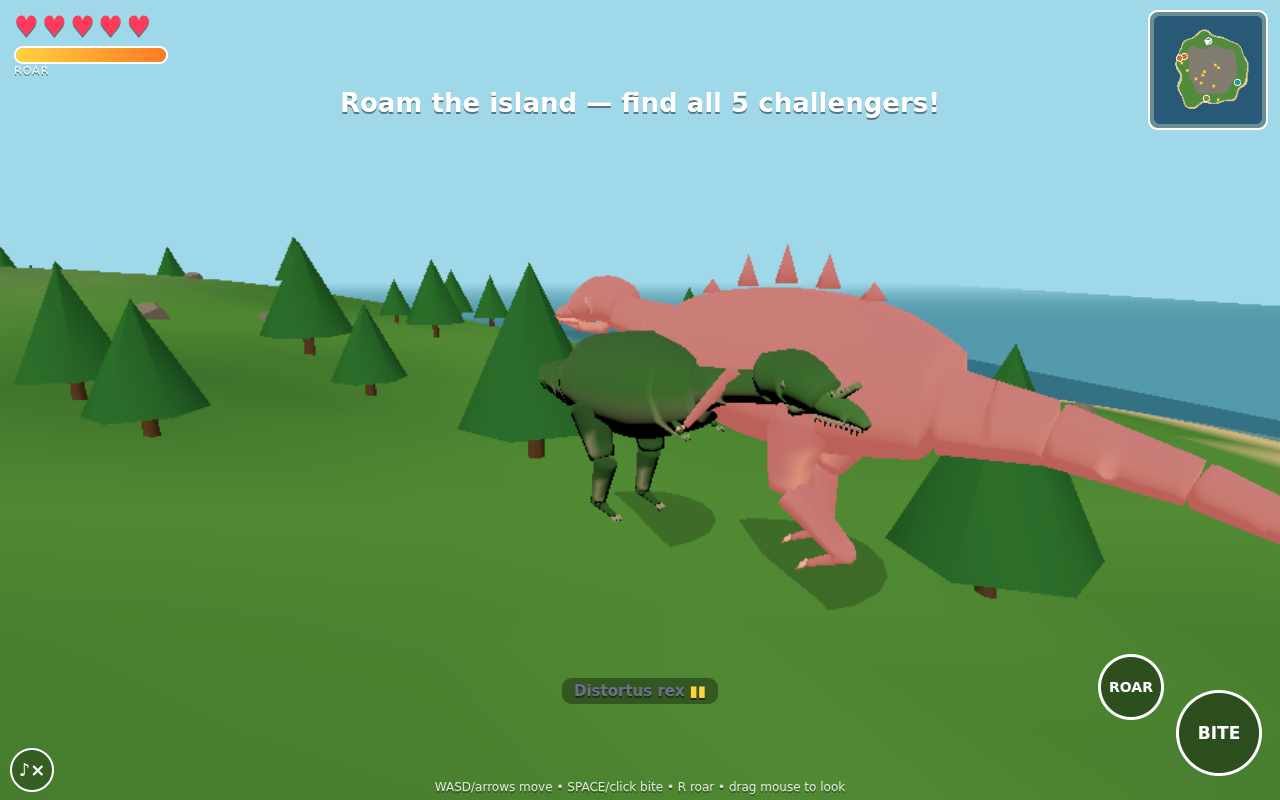
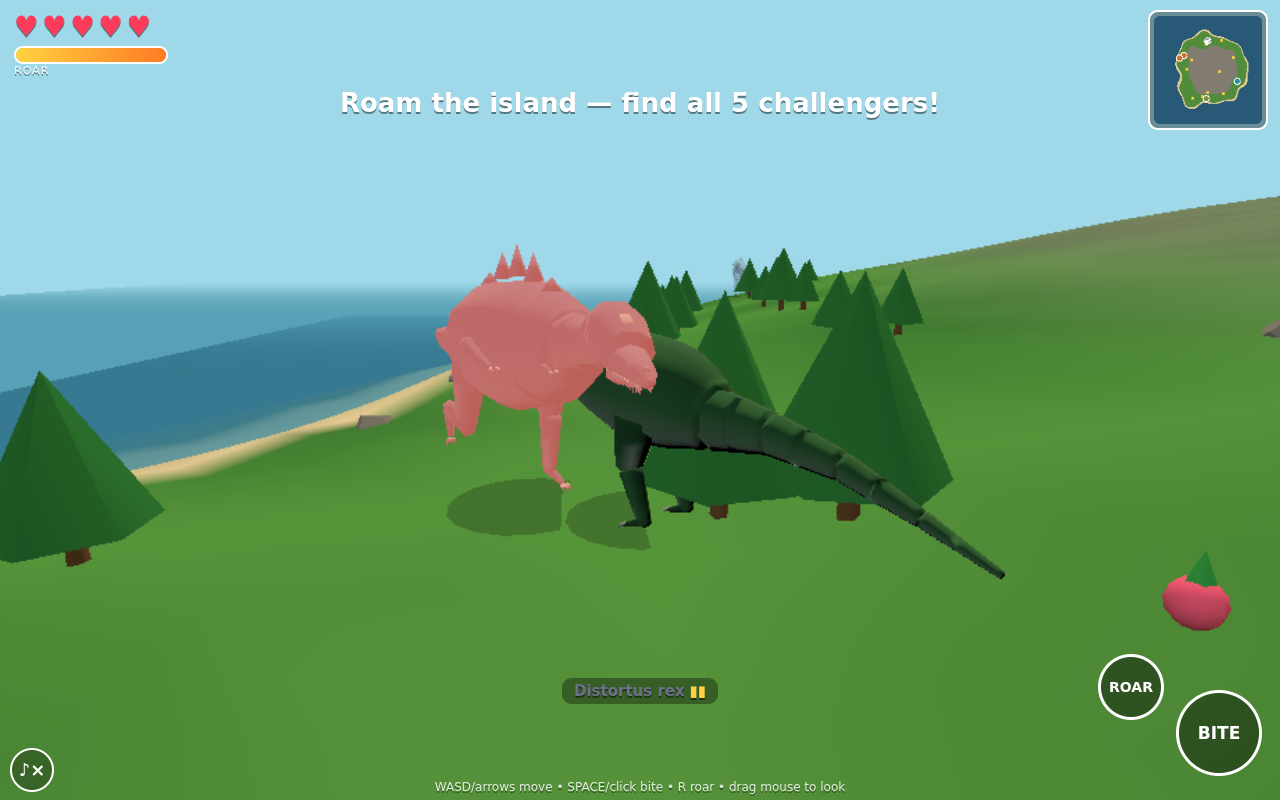
Dino Brawl 3D animation overhaul: speed-scaled gaits with knee flex and toe-off, bob/crouch/breathing, counterbalance tails that lag into turns, saccade-and-track gaze, telegraphed windup-then-snap bites with lunge, roar swell, buckle-and-topple deaths; Ankylo diagonal gait with club-cock tail sweep

diff --git a/examples/dinobrawl-3d/index.html b/examples/dinobrawl-3d/index.html
@@ -95,8 +95,9 @@ const scene=new THREE.Scene();
 scene.background=new THREE.Color(0x9fd8e8);
 scene.fog=new THREE.Fog(0x9fd8e8,tier==='low'?90:120,tier==='low'?210:300);
 const camera=new THREE.PerspectiveCamera(62,innerWidth/innerHeight,0.1,400);
-scene.add(new THREE.HemisphereLight(0xffffff,0x54703f,1.2));
-const sun=new THREE.DirectionalLight(0xfff2cf,1.9);sun.position.set(60,90,30);scene.add(sun);
+scene.add(new THREE.HemisphereLight(0xffffff,0x54703f,1.55));
+const sun=new THREE.DirectionalLight(0xfff2cf,1.7);sun.position.set(60,90,30);scene.add(sun);
+const fill=new THREE.DirectionalLight(0xcfe4ff,0.5);fill.position.set(-50,40,-60);scene.add(fill);
 
 /* ============================== audio ================================ */
 const AU={ctx:null,noise:null};
@@ -230,82 +231,190 @@ const shadowG=new THREE.CircleGeometry(1,18).rotateX(-Math.PI/2);
 const shadowM=new THREE.MeshBasicMaterial({color:0x000000,transparent:true,opacity:0.22,depthWrite:false});
 function makeChar(key){
   const sp=SPECIES[key],proto=geoCache[key].scene;
-  const root=proto.clone(true);
+  const model=proto.clone(true);
   const joints={},mats=[];
-  root.traverse(o=>{
+  model.traverse(o=>{
     if(o.isMesh){o.material=o.material.clone();o.material.vertexColors=true;mats.push(o.material);}
     else joints[o.name]=o;
   });
+  const root=new THREE.Group();          // outer: position+yaw only
+  root.add(model);                       // model: pose pitch/roll/breathe/bob
   const shadow=new THREE.Mesh(shadowG,shadowM.clone());
   root.add(shadow);
   scene.add(root);
-  const ch={key,sp,root,joints,shadow,mats,tail:[1,2,3,4].map(i=>joints['tail'+i]).filter(Boolean),
-    x:0,z:0,y:0,yaw:0,speed:0,state:'idle',t:rand(0,10),
+  const ch={key,sp,model,root,joints,shadow,mats,tail:[1,2,3,4].map(i=>joints['tail'+i]).filter(Boolean),
+    x:0,z:0,y:0,yaw:0,speed:0,state:'idle',t:rand(0,10),bob:0,
     hp:sp.hp,atkT:0,cool:0,windup:0,windupMax:1,hurtT:0,deadT:0,fear:0,alive:true,flash:0,
+    strikeT:0,roarT:0,roarMax:1,look:{y:0,ty:0,timer:rand(0,3)},yawLag:0,lastYaw:0,
+    fallSide:Math.random()<.5?-1:1,clubSide:0,prevAgg:0,
     wander:{x:0,z:0},home:{x:0,z:0},respawnAt:0,counted:false,isPlayer:false,remove:null};
-  const s=sp.scale;ch.root.scale.set(s,s,s);
+  const s=sp.scale;model.scale.set(s,s,s);
   return ch;
 }
 
-/* ============================== animation ============================ */
+/* ============================== animation ============================
+   Realistic-ish creature motion, tuned for fun:
+   • stride frequency scales with speed (dynamic similarity), sharpened swing phase
+   • knees flex in swing / extend through stance; feet push off at toe-off
+   • body bobs with steps, crouches lower when running, breathes when idle
+   • tail is a counterbalance: braces up at speed, lags into turns
+   • head does saccade-then-hold looks, locks forward at speed, tracks prey,
+     lags the body in turns (gaze stability)
+   • bite = arch back + gape (telegraph!) → explosive strike + snap
+   • roar = head high, chest out, body swell
+   • death = limbs buckle, body sinks and topples to one side
+   ------------------------------------------------------------------- */
+const easeOut=t=>1-Math.pow(1-t,3);
+function startRoar(ch,dur){ch.roarT=ch.roarMax=dur;}
+function focusOf(ch){ // what the eyes are on
+  if(!player||!player.alive)return ch.isPlayer?null:player;
+  if(ch.isPlayer){let b=null,bd=7;                       // player head eyes the nearest prey
+    for(const e of enemies){if(!e.alive)continue;const d=Math.hypot(e.x-ch.x,e.z-ch.z);if(d<bd){bd=d;b=e;}}
+    return b;}
+  return (ch.state==='chase'||ch.state==='attack'||ch.state==='flee')?player:null;
+}
 function poseChar(ch,dt){
-  const sp=ch.sp,J=ch.joints,th=ch.t;
-  const moving=Math.abs(ch.speed)>0.4;
-  const gait=ch.speed>sp.speed*0.55?1:0.62;
-  const w=ch.speed*(sp.kind==='quad'?0.9:1.15)+0.6;
-  ch.t+=dt*(moving?w:1.1);
-  const p=th*2.2;
-  const A=moving?(sp.kind==='quad'?0.5:0.7)*gait:0.05;
+  const sp=ch.sp,J=ch.joints,M=ch.model,s=sp.scale,quad=sp.kind==='quad';
+  if(!ch.alive){poseDeath(ch,dt);return;}
+  ch.strikeT=Math.max(0,ch.strikeT-dt);
+  ch.roarT=Math.max(0,ch.roarT-dt);
+  const roarK=ch.roarT>0?Math.sin(clamp(1-ch.roarT/ch.roarMax,0,1)*Math.PI):0;
+  const spdN=clamp(Math.abs(ch.speed)/sp.run,0,1);
+  const moving=Math.abs(ch.speed)>0.5;
+  const strideF=(quad?1.5:1.35)+spdN*(quad?2.3:2.9);   // steps/sec grows with speed
+  ch.t+=dt*(moving?strideF:0.45);
+  const p=ch.t*2.2;
   const flashK=ch.flash>0?Math.sin(ch.flash*40)*0.03:0;
-  // attack progress (shared windup/swing model)
-  let k=-1;
-  if(ch.windup>0)k=1-ch.windup/ch.windupMax;
-  else if(ch.atkT>0)k=1-ch.atkT/sp.atk;
-  if(sp.kind==='quad'){
-    if(J.legFL){J.legFL.rotation.z=A*Math.sin(p)+flashK;J.legFR.rotation.z=A*Math.sin(p+Math.PI)+flashK;
-                 J.legBL.rotation.z=A*Math.sin(p+Math.PI)*0.8;J.legBR.rotation.z=A*Math.sin(p)*0.8;}
-    if(J.head)J.head.rotation.z=Math.sin(th*1.3)*0.04-(k>=0?0.18*Math.sin(k*Math.PI):0);
-    if(J.tail1)J.tail1.rotation.y=Math.sin(th*1.6)*0.12+(k>=0?0.5*Math.sin(k*Math.PI):0);
-  } else {
-    if(J.thighL){
-      J.thighL.rotation.z=A*Math.sin(p)+flashK;J.thighR.rotation.z=A*Math.sin(p+Math.PI)+flashK;
-      if(J.shinL){J.shinL.rotation.z=-Math.max(0,Math.sin(p+0.9))*A*1.25;
-                  J.shinR.rotation.z=-Math.max(0,Math.sin(p+0.9+Math.PI))*A*1.25;}
-      if(J.footL){J.footL.rotation.z=Math.sin(p+1.6)*A*0.6;J.footR.rotation.z=Math.sin(p+1.6+Math.PI)*A*0.6;}
-      const sw=Math.sin(th*0.9)*0.08;
-      ch.tail.forEach((j,i)=>{j.rotation.y=Math.sin(th*1.3+i*0.55)*0.13*(1+i*0.3)*(moving?1.3:0.7)+sw;
-                             j.rotation.z=-0.09;});
-      if(J.armL){J.armL.rotation.z=-A*0.5*Math.sin(p)+0.15;J.armR.rotation.z=-A*0.5*Math.sin(p+Math.PI)+0.15;
-        if(J.arm2L){J.arm2L.rotation.z=-A*0.5*Math.sin(p+1)+0.25;J.arm2R.rotation.z=-A*0.5*Math.sin(p+1+Math.PI)+0.25;}}
-      let gape=0.04+Math.sin(th*2.3)*0.02, neckZ=Math.sin(th*1.1)*0.03, headZ=0;
-      if(k>=0){
-        gape=k<0.45?lerp(0,0.6,k/0.45):lerp(0.6,0.02,(k-0.45)/0.55);
-        neckZ=lerp(0.1,-0.18,clamp(k*1.6,0,1));headZ=lerp(-0.12,0.1,k);
-      }
-      if(sp.tailswish&&k>=0)ch.tail.forEach((j,i)=>{j.rotation.y+=Math.sin(k*Math.PI*2.5)*0.5*(1+i*0.4);});
-      if(J.neck)J.neck.rotation.z=neckZ;
-      if(J.head)J.head.rotation.z=headZ+Math.sin(th*1.7)*0.02;
-      if(J.jaw)J.jaw.rotation.z=gape;
+  // smoothed turn rate → tail lags one way, head the other (like real animals)
+  const yr=dt>0?angDiff(ch.yaw,ch.lastYaw)/dt:0; ch.lastYaw=ch.yaw;
+  ch.yawLag+=(clamp(yr,-3,3)-ch.yawLag)*Math.min(1,dt*5);
+  // gaze: saccade to a look target, then hold; lock on focus when it matters
+  const foc=focusOf(ch);
+  ch.look.timer-=dt;
+  if(foc)ch.look.ty=clamp(angDiff(Math.atan2(-(foc.z-ch.z),foc.x-ch.x),ch.yaw),-0.65,0.65);
+  else if(ch.look.timer<=0){ch.look.timer=rand(2.4,6);ch.look.ty=moving?0:rand(-0.8,0.8);}
+  const lkS=Math.abs(ch.look.ty-ch.look.y)>0.12?9:2.2; // saccade fast, drift slow
+  ch.look.y+=(ch.look.ty-ch.look.y)*Math.min(1,dt*lkS);
+  const breath=Math.sin(ch.t*1.6);
+  const hurtK=ch.hurtT>0?1:0;
+  if(quad){
+    /* Ankylosaurus: low heavy diagonal-sequence gait; club follows the head,
+       winds up cocked to one side, then whips across the other */
+    const A=(0.24+spdN*0.30)*(moving?1:0.04);
+    const sw=q=>Math.sin(q+0.3*Math.sin(q));
+    if(J.legFL){J.legFL.rotation.z=A*sw(p)+flashK;  J.legBR.rotation.z=A*sw(p)+flashK*0.8;
+                J.legFR.rotation.z=A*sw(p+Math.PI)+flashK;J.legBL.rotation.z=A*sw(p+Math.PI)+flashK*0.8;
+                J.legFL.rotation.x=J.legBL.rotation.x=0;J.legFR.rotation.x=J.legBR.rotation.x=0;}
+    ch.bob=moving?Math.abs(Math.sin(p))*(0.035+0.05*spdN):0;
+    let clubY=Math.sin(ch.t*0.8)*0.05-ch.yawLag*0.18, clubZ=0;
+    let headZ=-0.05+Math.sin(ch.t*0.7)*0.03, headY=ch.look.y*0.55-ch.yawLag*0.05;
+    if(ch.windup>0||ch.strikeT>0){
+      const side=ch.clubSide||(ch.clubSide=(player.x>=ch.x?1:-1)); // wind toward the player, whip across
+      if(ch.windup>0){const w=1-ch.windup/ch.windupMax;clubY=side*(0.45+0.95*w);clubZ=0.25*w;headZ-=0.10*w;}
+      else{const w=clamp(1-ch.strikeT/0.26,0,1);clubY=side*(1.4-2.8*easeOut(w));headZ-=0.12*(1-w);}
     }
-    ch.root.rotation.z=Math.sin(p)*0.02*(moving?1:0.2);
+    if(roarK>0){headZ+=0.35*roarK;clubY*=(1-roarK);}
+    if(hurtK){headZ-=0.18;clubY+=Math.sin(ch.hurtT*40)*0.2;}
+    if(J.head){J.head.rotation.y=headY;J.head.rotation.z=headZ;}
+    if(J.tail1){J.tail1.rotation.y=clubY;J.tail1.rotation.z=clubZ;}
+    M.rotation.z=-0.01+Math.sin(p)*0.012*(moving?1:0.3)+flashK*2+(hurtK?Math.sin(ch.hurtT*50)*0.04:0);
+    M.rotation.x=0;
+    M.position.y=hurtK?Math.sin(ch.hurtT*40)*0.03:0;
+    const bs=1+breath*0.010*(moving?0.3:1)+roarK*0.025;
+    M.scale.set(s*(1+(bs-1)*0.5),s*bs,s*(1+(bs-1)*0.7));
+  } else {
+    /* Theropod: sharp swing-phase legs, knee flexion, toe-off push */
+    const A=(0.28+spdN*0.50)*(moving?1:0.05);
+    const sw=q=>Math.sin(q+0.45*Math.sin(q));           // fast lift, slow push
+    if(!J.thighL)return;
+    J.thighL.rotation.z=A*sw(p)+flashK;
+    J.thighR.rotation.z=A*sw(p+Math.PI)+flashK;
+    J.shinL.rotation.z=-(0.13+0.10*spdN+A*1.15*Math.max(0,Math.sin(p+1.4)));
+    J.shinR.rotation.z=-(0.13+0.10*spdN+A*1.15*Math.max(0,Math.sin(p+Math.PI+1.4)));
+    if(J.footL){J.footL.rotation.z=0.13*Math.sin(p+2.8)*(moving?1:0.1);
+                J.footR.rotation.z=0.13*Math.sin(p+Math.PI+2.8)*(moving?1:0.1);}
+    ch.bob=moving?Math.abs(Math.sin(p))*(0.04+0.09*spdN):0;
+    // tail: horizontal stance, braced high at speed, sweeps opposite to turns
+    ch.tail.forEach((j,i)=>{
+      j.rotation.y=Math.sin(ch.t*1.1+i*0.6)*0.09*(1+i*0.25)*(moving?1.15:0.55)
+                  -ch.yawLag*(0.05+i*0.014);
+      j.rotation.z=-(0.10+spdN*0.05);
+    });
+    if(sp.tailswish&&(ch.windup>0||ch.strikeT>0)){       // Spinosaurus tail bludgeon
+      const w=ch.windup>0?1-ch.windup/ch.windupMax:1.2+clamp(1-ch.strikeT/0.24,0,1);
+      ch.tail.forEach((j,i)=>{j.rotation.y+=Math.sin(w*Math.PI*2.2)*0.55*(1+i*0.4);});
+    }
+    // arms: tucked, swing faintly with the steps; Distortus' extra pair twitches
+    if(J.armL){const aw=moving?A*0.45:0.04-breath*0.03;
+      J.armL.rotation.z=aw+0.28;J.armR.rotation.z=aw+0.28;
+      if(J.arm2L){const tw=Math.sin(ch.t*3.4+1.5)*0.13;
+        J.arm2L.rotation.z=aw*0.6+tw+0.36;J.arm2R.rotation.z=aw*0.6-tw+0.36;}}
+    // neck/head: look + gaze lag + breath; windup = arch & gape; strike = drive & snap
+    let neckY=ch.look.y*0.55-ch.yawLag*0.18, neckZ=0.02+breath*0.012,
+        headY=ch.look.y*0.30-ch.yawLag*0.10, headZ=-0.03, gape=0.03+Math.sin(ch.t*2.4)*0.012;
+    if(ch.windup>0){                                   // telegraph: rear back, jaws wide
+      const w=1-ch.windup/ch.windupMax;
+      neckZ=lerp(neckZ,0.32,w);headZ=lerp(headZ,0.26,w);gape=lerp(gape,0.62,w);
+    } else if(ch.strikeT>0){
+      const dur=ch.isPlayer?0.28:0.24, u=clamp(1-ch.strikeT/dur,0,1);
+      if(ch.isPlayer){                                 // arcade instant bite: load & snap
+        if(u<0.42){const w=u/0.42;neckZ=lerp(0.02,0.24,w);headZ=lerp(-0.03,0.18,w);gape=lerp(0.05,0.58,w);}
+        else{const w=(u-0.42)/0.58;neckZ=lerp(0.24,-0.34,easeOut(w));headZ=lerp(0.18,-0.15,easeOut(w));
+             gape=lerp(0.58,0.02,clamp(w*1.7,0,1));}
+      } else {                                         // follow-through from the windup
+        neckZ=lerp(0.32,-0.38,easeOut(clamp(u*1.5,0,1)));
+        headZ=lerp(0.26,-0.18,easeOut(clamp(u*1.5,0,1)));
+        gape=lerp(0.62,0.02,clamp(u*2.2,0,1));
+      }
+    }
+    if(hurtK){gape=Math.max(gape,0.22);neckZ-=0.12;headZ+=0.10;}
+    if(roarK>0){neckY=0;headY=0;neckZ=lerp(neckZ,0.62,roarK);headZ=lerp(headZ,0.32,roarK);gape=lerp(gape,0.5,roarK);}
+    J.neck.rotation.y=neckY;J.neck.rotation.z=neckZ;
+    J.head.rotation.y=headY;J.head.rotation.z=headZ;
+    J.jaw.rotation.z=gape;
+    // body: crouch with speed, bob-pitch with steps, flinch wobble
+    M.rotation.z=-0.015-0.05*spdN+Math.sin(p)*0.018*(moving?1:0.25)
+                 +(hurtK?Math.sin(ch.hurtT*50)*0.05:0)+flashK*2-roarK*0.05;
+    M.rotation.x=0;
+    M.position.y=hurtK?Math.sin(ch.hurtT*40)*0.03:0;
+    const bs=1+breath*0.012*(moving?0.3:1)+roarK*0.03;
+    M.scale.set(s*(1+(bs-1)*0.5),s*bs,s*(1+(bs-1)*0.7));
   }
-  if(ch.hurtT>0)ch.root.rotation.z+=Math.sin(ch.hurtT*50)*0.05;
-  if(!ch.alive){
-    ch.deadT+=dt;
-    ch.root.rotation.z=lerp(0,-1.55,clamp(ch.deadT*1.6,0,1));
-    if(ch.deadT>2.6)ch.mats.forEach(m=>{m.transparent=true;m.opacity=clamp(1-(ch.deadT-2.6)/1.2,0,1);});
-    if(ch.deadT>4.2&&ch.remove)ch.remove();
-  }
-  if(sp.camo&&ch.alive){
+  if(sp.camo){ // Indominus: translucent prowl with a heat-shimmer
     const near=player&&Math.hypot(ch.x-player.x,ch.z-player.z)<16;
-    const vis=(k>=0||ch.hurtT>0||near)?1:0.32;
-    ch.mats.forEach(m=>{m.transparent=true;m.opacity=lerp(m.opacity??1,vis,0.1);});
+    const base=(ch.windup>0||ch.strikeT>0||ch.hurtT>0||near)?1:0.32;
+    const vis=base*(0.90+0.10*Math.sin(ch.t*8));
+    ch.mats.forEach(m=>{m.transparent=true;m.opacity=lerp(m.opacity??1,vis,0.12);});
   }
   const fl=ch.flash>0;
   ch.mats.forEach(m=>{if(m.emissive)m.emissive.setRGB(fl?0.5:0,fl?0.12:0,fl?0.1:0);});
-  ch.shadow.visible=ch.alive;
-  const sr=1.5*sp.scale*(sp.kind==='quad'?1.35:1);
+  ch.shadow.visible=true;
+  const sr=1.5*sp.scale*(quad?1.35:1);
   ch.shadow.scale.set(sr,sr,sr);
+}
+function poseDeath(ch,dt){
+  ch.deadT+=dt;ch.bob=0;
+  const d=ch.deadT,M=ch.model,J=ch.joints,q=ch.sp.kind==='quad';
+  const buckle=Math.min(1,dt*3), fall=easeOut(clamp((d-0.2)/1.0,0,1));
+  M.position.y=-0.15-0.85*clamp(d/0.9,0,1);
+  M.rotation.x=ch.fallSide*1.45*fall;                  // topple to one side
+  M.rotation.z=q?0:0.3*(1-clamp(d/0.5,0,1))-0.05;      // nose dips as legs buckle
+  if(q&&J.legFL){J.legFL.rotation.x=J.legBL.rotation.x=0.5*fall;   // legs sprawl out
+                 J.legFR.rotation.x=J.legBR.rotation.x=-0.5*fall;
+                 J.legFL.rotation.z*=1-dt;J.legFR.rotation.z*=1-dt;
+                 J.legBL.rotation.z*=1-dt;J.legBR.rotation.z*=1-dt;}
+  else if(J.thighL){J.thighL.rotation.z=lerp(J.thighL.rotation.z,0.5,buckle);    // knees give
+                    J.thighR.rotation.z=lerp(J.thighR.rotation.z,0.4,buckle);
+                    J.shinL.rotation.z=lerp(J.shinL.rotation.z,-0.85,buckle);
+                    J.shinR.rotation.z=lerp(J.shinR.rotation.z,-0.75,buckle);}
+  if(J.neck)J.neck.rotation.z=lerp(J.neck.rotation.z,q?0:-0.5,buckle*0.8);       // neck goes limp
+  if(J.head)J.head.rotation.z=lerp(J.head.rotation.z,0.25,buckle*0.8);
+  if(J.jaw)J.jaw.rotation.z=lerp(J.jaw.rotation.z,0.16,buckle*0.8);              // jaw hangs open
+  ch.tail.forEach(j=>{j.rotation.y*=Math.max(0,1-dt*2);j.rotation.z=lerp(j.rotation.z,-0.04,buckle);});
+  ch.shadow.scale.multiplyScalar(Math.max(0,1-dt*0.45));
+  ch.mats.forEach(m=>{if(m.emissive)m.emissive.setRGB(0,0,0);});
+  if(d>2.6)ch.mats.forEach(m=>{m.transparent=true;m.opacity=clamp(1-(d-2.6)/1.2,0,1);});
+  if(d>4.2&&ch.remove)ch.remove();
 }
 
 /* ============================== input ================================ */
@@ -386,7 +495,7 @@ async function initGame(){
   try{actx().resume&&actx().resume();ambient();}catch(e){}
   await Promise.all(Object.keys(SPECIES).map(loadSpecies));
   player=makeChar('trex');player.isPlayer=true;
-  player.x=0;player.z=92;player.y=terrainH(0,92);player.yaw=Math.PI/2;
+  player.x=0;player.z=92;player.y=terrainH(0,92);player.yaw=Math.PI/2;player.lastYaw=player.yaw;
   await spawnEnemies();
   started=true;
   toast('Roam the island — find all 5 challengers!');
@@ -435,19 +544,24 @@ const defeated=new Set();
 function respawnPlayer(){
   hearts=2;setHearts();
   player.x=0;player.z=92;player.yaw=Math.PI/2;player.alive=true;player.state='idle';
-  player.root.rotation.z=0;player.deadT=0;player.mats.forEach(m=>{m.transparent=false;m.opacity=1;});
+  player.lastYaw=player.yaw;player.model.rotation.set(0,0,0);player.model.position.y=0;
+  player.deadT=0;player.strikeT=0;player.roarT=0;player.bob=0;
+  player.mats.forEach(m=>{m.transparent=false;m.opacity=1;});
   toast('You woke up at camp');
 }
 function resetEnemy(e){
   e.hp=e.sp.hp;e.alive=true;e.deadT=0;e.state='idle';e.respawnAt=0;
   e.x=e.home.x;e.z=e.home.z;e.y=terrainH(e.x,e.z);e.fear=0;e.windup=0;e.cool=0;
-  e.root.rotation.z=0;e.mats.forEach(m=>{m.transparent=false;m.opacity=1;});
+  e.model.rotation.set(0,0,0);e.model.position.y=0;e.strikeT=0;e.roarT=0;e.bob=0;e.prevAgg=0;
+  e.mats.forEach(m=>{m.transparent=false;m.opacity=1;});
 }
 function winGame(){SFX.win();toast('ISLAND CHAMPION! All challengers beaten!',99999);}
 
 function playerBite(){
   if(!player.alive||player.atkT>0||player.windup>0)return;
-  player.atkT=SPECIES.trex.atk;player.state='attack';
+  player.atkT=SPECIES.trex.atk;player.state='attack';player.strikeT=0.28;
+  // arcade lunge into the bite (small — collision resolution runs next frame)
+  player.x+=Math.cos(player.yaw)*0.45;player.z-=Math.sin(player.yaw)*0.45;
   // assist: snap-aim at the nearest prey within striking distance
   let aid=null,ad=1e9;
   for(const e of enemies){if(!e.alive)continue;
@@ -476,8 +590,8 @@ function playerBite(){
 }
 function playerRoar(){
   if(!player.alive||roarGauge<0.35||roarCd>0)return;
-  roarGauge=0;roarCd=1.2;SFX.roar('trex');
-  ripple(player.x,player.y+2.4,player.z);
+  roarGauge=0;roarCd=1.2;SFX.roar('trex');startRoar(player,1.0);
+  ripple(player.x,player.y+0.25,player.z);
   for(const e of enemies){
     if(!e.alive)continue;
     const d=Math.hypot(e.x-player.x,e.z-player.z);
@@ -505,8 +619,7 @@ function stepEnemy(e,dt){
   e.y=terrainH(e.x,e.z);
   if(!e.alive){
     if(e.respawnAt&&performance.now()>e.respawnAt)resetEnemy(e);
-    poseChar(e,dt);e.root.position.set(e.x,e.y,e.z);e.root.rotation.y=e.yaw;return;
-  }
+    poseChar(e,dt);e.root.position.set(e.x,e.y,e.z);e.root.rotation.y=e.yaw;return;  }
   if(player==null)return;
   const dp=Math.hypot(player.x-e.x,player.z-e.z);
   e.speed=0;
@@ -515,23 +628,27 @@ function stepEnemy(e,dt){
   if(e.fear>0){e.fear-=dt;flee(e,dt);poseAndPlace(e,dt);return;}
   if(e.windup>0){
     e.windup-=dt;
-    if(e.windup<=0){ // strike
-      e.windup=0;
+    if(e.windup<=0){ // strike — commit to the lunge so it reads and lands
+      e.windup=0;e.strikeT=0.24;
+      const hitR=inFront(e,player,e.sp.reach);
+      e.x+=Math.cos(e.yaw)*(hitR?1.0:0.55);e.z-=Math.sin(e.yaw)*(hitR?1.0:0.55);
       if(e.sp.stomp&&dp<9.5){SFX.stomp();if(dp<9)hurt(player,e.sp.dmg,e.x,e.z);ripple(e.x,e.y+0.3,e.z);}
-      else if(inFront(e,player,e.sp.reach)){hurt(player,e.sp.dmg,e.x,e.z);if(!e.sp.armor)SFX.chomp();else SFX.clang();}
+      else if(hitR){hurt(player,e.sp.dmg,e.x,e.z);if(!e.sp.armor)SFX.chomp();else SFX.clang();}
       else SFX.bite();
       e.cool=e.sp.stomp?2.6:(e.sp.armor?1.8:1.2);e.state='chase';
     }
   } else if(player.alive&&dp<e.sp.aggro){
     e.state='chase';
+    if(!e.prevAgg){e.prevAgg=1;                            // fresh spotting: announce it
+      if(e.key!=='ankylo'&&Math.random()<0.7){SFX.roar(e.key);startRoar(e,0.7);}}
     const toP=Math.atan2(-(player.z-e.z),player.x-e.x);
     const trn=(e.sp.turn||3);
     e.yaw+=clamp(angDiff(toP,e.yaw),-trn*dt,trn*dt);
     if(dp>e.sp.atk)walkToward(e,e.sp.run,player.x,player.z,dt);
     else if(e.cool<=0){e.windup=e.sp.atk;e.windupMax=e.sp.atk;e.state='attack';
-      if(Math.random()<0.25)SFX.roar(e.key);}
+      if(e.sp.armor&&Math.random()<0.3)SFX.roar(e.key);}
   } else {
-    e.state='idle';
+    e.state='idle';e.prevAgg=0;
     const dw=Math.hypot(e.wander.x-e.x,e.wander.z-e.z);
     if(dw<3||Math.random()<0.002)e.wander={x:clamp(e.home.x+rand(-26,26),-100,100),z:clamp(e.home.z+rand(-26,26),-100,100)};
     if(terrainH(e.wander.x,e.wander.z)>0.6)walkToward(e,e.sp.speed*0.5,e.wander.x,e.wander.z,dt);
@@ -543,7 +660,7 @@ function poseAndPlace(e,dt){
   poseChar(e,dt);
   collideSolids(e);
   e.y=terrainH(e.x,e.z);
-  e.root.position.set(e.x,e.y,e.z);
+  e.root.position.set(e.x,e.y+e.bob,e.z);
   e.root.rotation.y=e.yaw;
 }
 function walkToward(e,spd,tx,tz,dt){
@@ -594,7 +711,7 @@ function stepPlayer(dt){
     if(Math.random()<0.02)SFX.splash();}
   if(Math.hypot(player.x,player.z)>140){const k=Math.hypot(player.x,player.z);player.x*=140/k;player.z*=140/k;}
   player.y=terrainH(player.x,player.z);
-  player.root.position.set(player.x,player.y,player.z);
+  player.root.position.set(player.x,player.y+player.bob,player.z);
   player.root.rotation.y=player.yaw;
   // snacks
   for(let i=snacks.length-1;i>=0;i--){const s=snacks[i];
@@ -771,7 +888,22 @@ window.__probe={
   goToEnemy(i=0){const al=enemies.filter(e=>e.alive);if(al[i]){const e=al[i];
     this.teleport(e.x-Math.cos(e.yaw)*2.2,e.z+Math.sin(e.yaw)*2.2);this.face(e.x,e.z);return e.key;}return null;},
   hurtPlayer(){invulnT=0;hurt(player,1,player.x+1,player.z);},
-  dbg(){return{rz:+player.root.rotation.z.toFixed(2),ry:+player.root.rotation.y.toFixed(2),
+  windup(i=0){const al=enemies.filter(e=>e.alive);const e=al[i];
+    if(e){e.windup=e.windupMax=e.sp.atk;e.state='attack';return e.key;}return null;},
+  joints(which='player'){
+    const ch=which==='player'?player:enemies.find(e=>e.key===which);if(!ch)return null;
+    const T=new THREE.Vector3(),q=new THREE.Quaternion(),sc=new THREE.Vector3();
+    const out={bob:+ch.bob.toFixed(2),w:+ch.windup.toFixed(2),st:+ch.strikeT.toFixed(2),
+      mrot:[ch.model.rotation.x,ch.model.rotation.y,ch.model.rotation.z].map(v=>+v.toFixed(2)),
+      my:+ch.model.position.y.toFixed(2)};
+    for(const [nm,j] of Object.entries(ch.joints)){
+      if(!/tail|neck|head|thigh|shin|leg/.test(nm))continue;
+      j.matrixWorld.decompose(T,q,sc);
+      out[nm]={r:[+j.rotation.x.toFixed(2),+j.rotation.y.toFixed(2),+j.rotation.z.toFixed(2)],
+        pos:[+T.x.toFixed(1),+T.y.toFixed(1),+T.z.toFixed(1)]};
+    }
+    return out;},
+  dbg(){return{rz:+player.model.rotation.z.toFixed(2),ry:+player.root.rotation.y.toFixed(2),
     pstate:player.state,pyaw:+player.yaw.toFixed(2),camYaw:typeof camYaw!=='undefined'?+camYaw.toFixed(2):null,
     cam:[camera.position.x.toFixed(1),camera.position.y.toFixed(1),camera.position.z.toFixed(1)],
     p:[player.x.toFixed(1),player.y.toFixed(1),player.z.toFixed(1)]};},
